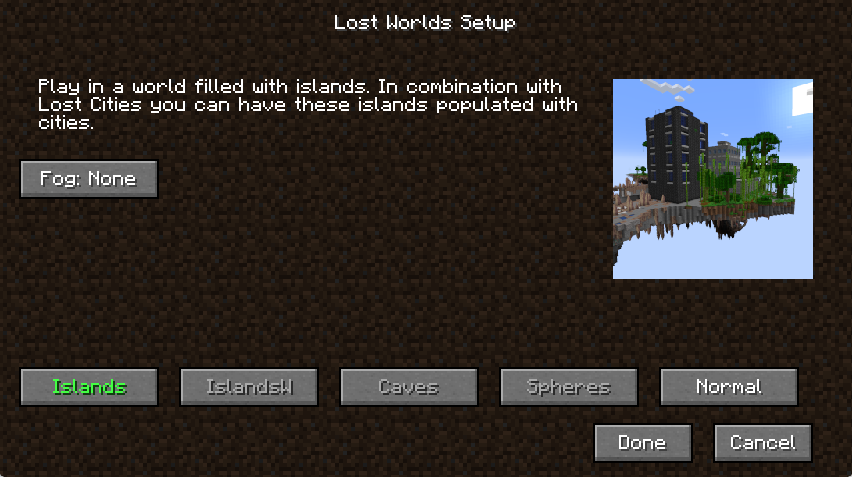
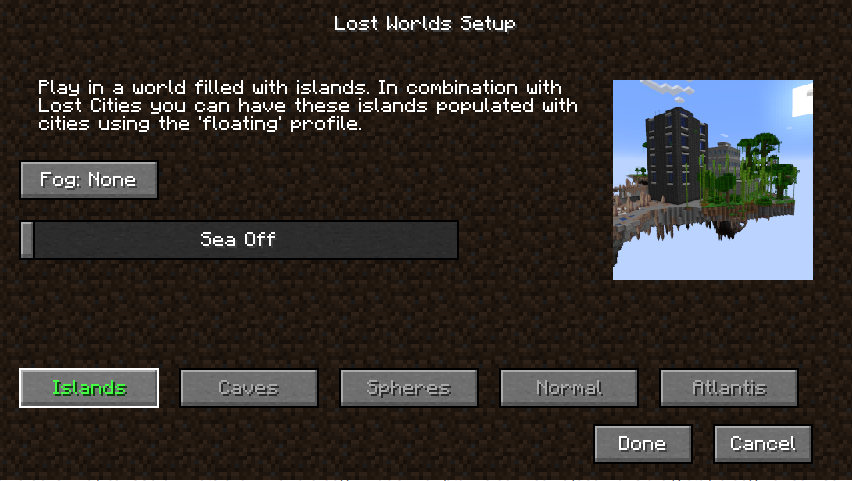
Documentation updates

diff --git a/www/docs/mods/lost-cities/lost-cities.md b/www/docs/mods/lost-cities/lost-cities.md
@@ -62,6 +62,19 @@ It is NOT needed to copy the entire single player world to the server. Only the 
 
 If you want to configure the world on the server itself then you can do that by editing the _lostcities-server.toml_ file.
 
+Note, if you don't want to first create a single player world then you can also configure the server
+by placing a _lostcities-server.toml_ file in the _defaultconfigs_ directory. Here is an example of how that
+would look like:
+
+```toml
+#General settings
+[profiles]
+	#Block to put underneath a bed so that it qualifies as a teleporter bed
+	specialBedBlock = "minecraft:diamond_block"
+	selectedProfile = "profile"
+	selectedCustomJson = ""
+```
+
 ### Lost Worlds Single Player
 
 While Lost Cities adds cities to whatever world type that you created it doesn't actually modify how the world itself is generated.
@@ -81,15 +94,79 @@ this world type:
 
 The five possible types are:
 
-* Islands: this is a void world with floating islands. In combination with Lost Cities you can populate these islands with cities (use the 'floating' profile for that)
-* IslandsW: this is similar but instead of a void world the islands are floating on top of an infinite ocean
-* Caves: this is a world similar to the nether but with regular stone and ores. You can use this in combination with the 'cavern' profile for Lost Cities. Warning! This is very hard. It may be recommended to use a spawn chest to help get started
-* Spheres: this is a void world that you can use in combination with the 'space' profile for Lost Cities. This will generate spheres which may contain cities
-* Normal: this is a normal style world that can be used in combination with the Lost Cities 'biosphere' profile. This is best used in combination with the 'Wastes' version of the world preset
+* **Islands**: this is a void world with floating islands. In combination with Lost Cities you can populate these islands with cities (use the 'floating' profile for that)
+* **Caves**: this is a world similar to the nether but with regular stone and ores. You can use this in combination with the 'cavern' profile for Lost Cities. Warning! This is very hard. It may be recommended to use a spawn chest to help get started
+* **Spheres**: this is a void world that you can use in combination with the 'space' profile for Lost Cities. This will generate spheres which may contain cities
+* **Normal**: this is a normal style world that can be used in combination with the Lost Cities 'biosphere' profile. This is best used in combination with the 'Wastes' version of the world preset
+* **Atlantis**: this is a normal style world that can be used in combination with the Lost Cities 'atlantis' profile. The sea will be at height 90
+
+With the fog button you can configure the fog color for the overworld.
+The sea slider allows you to configure the sea level. This is only relevant for the _Islands_ and
+_Spheres_ world types. For the other world types the sea level is fixed.
+
+Note that selecting a world type will automatically select the corresponding profile for Lost Cities. You
+can still change this later if you want.
 
 ### Lost Worlds Multiplayer
 
+When you want to configure Lost Worlds on a server you first have to follow the steps to configure
+Lost Cities on a server. Make sure to pick the profile that is compatible with the world type that
+you want to use.
 
+After that the only thing you have to do is to configure the world type itself. This can be done
+by editing the _server.properties_ file and changing this line:
+
+```
+level-type=lostworlds\:lost_worlds
+```
+Make sure you have a new world (delete the 'world' directory if needed) and the server should use
+the default lost worlds type (which corresponds to floating islands).
+
+#### Using another Lost Worlds type 
+
+Using another Lost Worlds type is possible but a bit more complicated. Lost Worlds comes with
+three more world types:
+
+* _lostworlds:lost_worlds_caves_
+* _lostworlds:lost_worlds_spheres_
+* _lostworlds:lost_worlds_atlantis_ 
+
+To use these you have to make a small datapack that adds the desired world type to the right tag. For
+example. Let's say you want to make a caves type world. You'll have to do the following things:
+
+* Setup Lost Cities for a 'cavern' style world (see above in the multiplayer section of Lost Cities)
+* Edit _server.properties_ and change the _level-type_ to _lostworlds:lost_worlds_caves_
+* Make a datapack to add the lost_worlds_caves preset to the tag.
+
+To do this last step you first have to make sure you have a _world_ folder that is empty.
+In that folder you then create a _datapacks_ folder and in that folder you create a folder
+for your datapack (can have any name you want).
+You then create the _pack.mcmeta_ file in that folder:
+
+```mcmeta
+{
+  "pack": {
+    "pack_format": 10,
+    "description": "New world preset"
+  }
+}
+```
+
+In addition you create the folder _data/minecraft/tags/worldgen/world_preset_ and in that folder
+create the _normal.json_ file with the following contents:
+
+```json
+{
+  "values": [
+    "lostworlds:lost_worlds_caves"
+  ]
+}
+```
+
+Then also create an _extended.json_ file with exactly the same contents.
+
+If you followed all these steps correctly then you should be able to start the server and it will
+use the caves world type.
 
 ## Basic Structure
 
@@ -106,13 +183,8 @@ Nevertheless, this mod maintains several world-wide data structures and is able 
 
 Read about it here: [Basic Structure](./structure.md)
 
-## Configuration
-
-TODO
 
 ## The Asset System
 
 The asset system is a powerful system that you can customize to make your own buildings, decorations, control loot, mob spawners, building blocks and more.
-
-* For 1.17 and older you can read about it here: [Asset System](./asset.md)
-* For 1.18 and newer you need to visit this: [Asset DataPack System](./asset-datapack.md)
+Read about it here: [Asset DataPack System](./asset-datapack.md)
